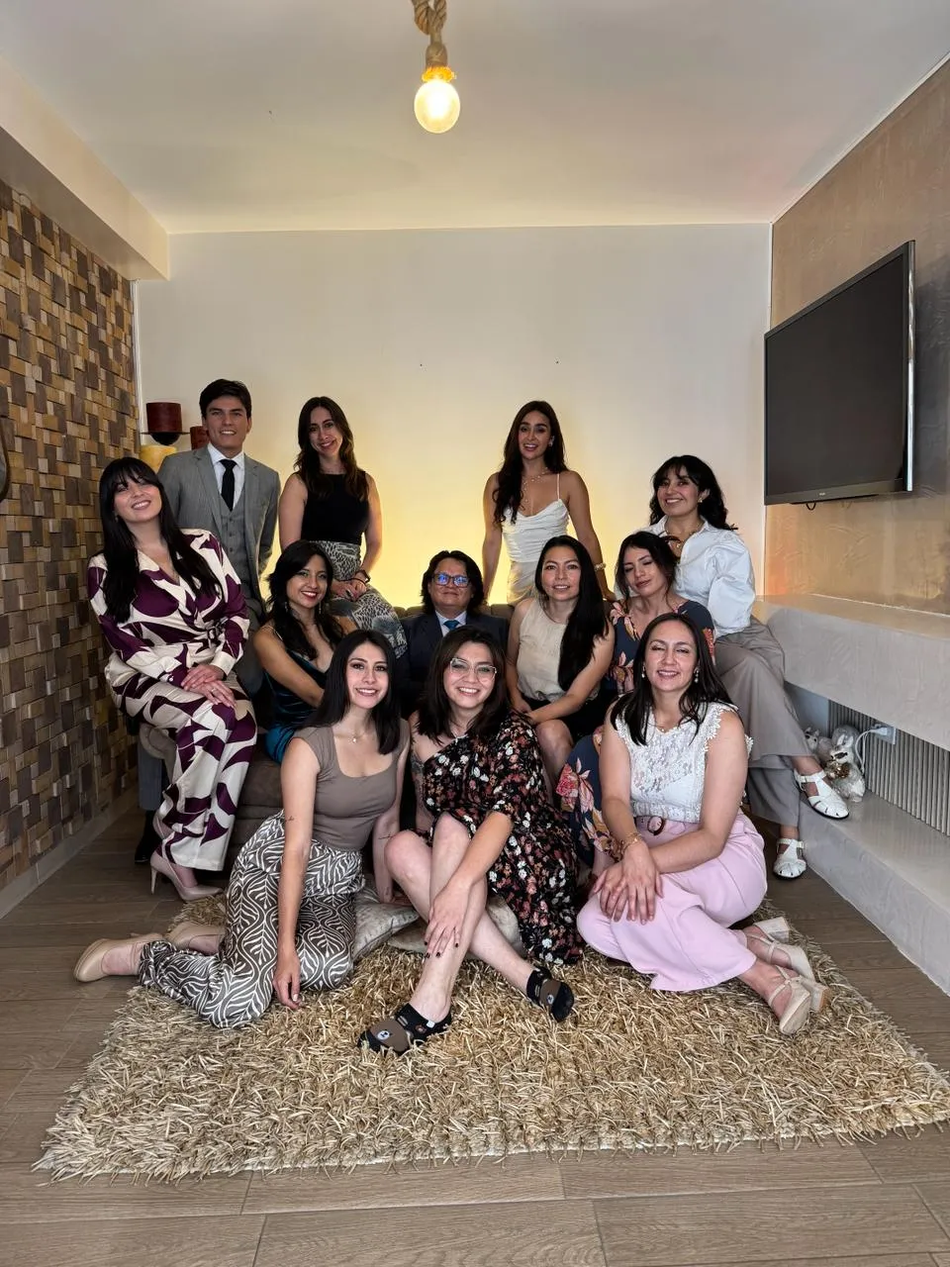
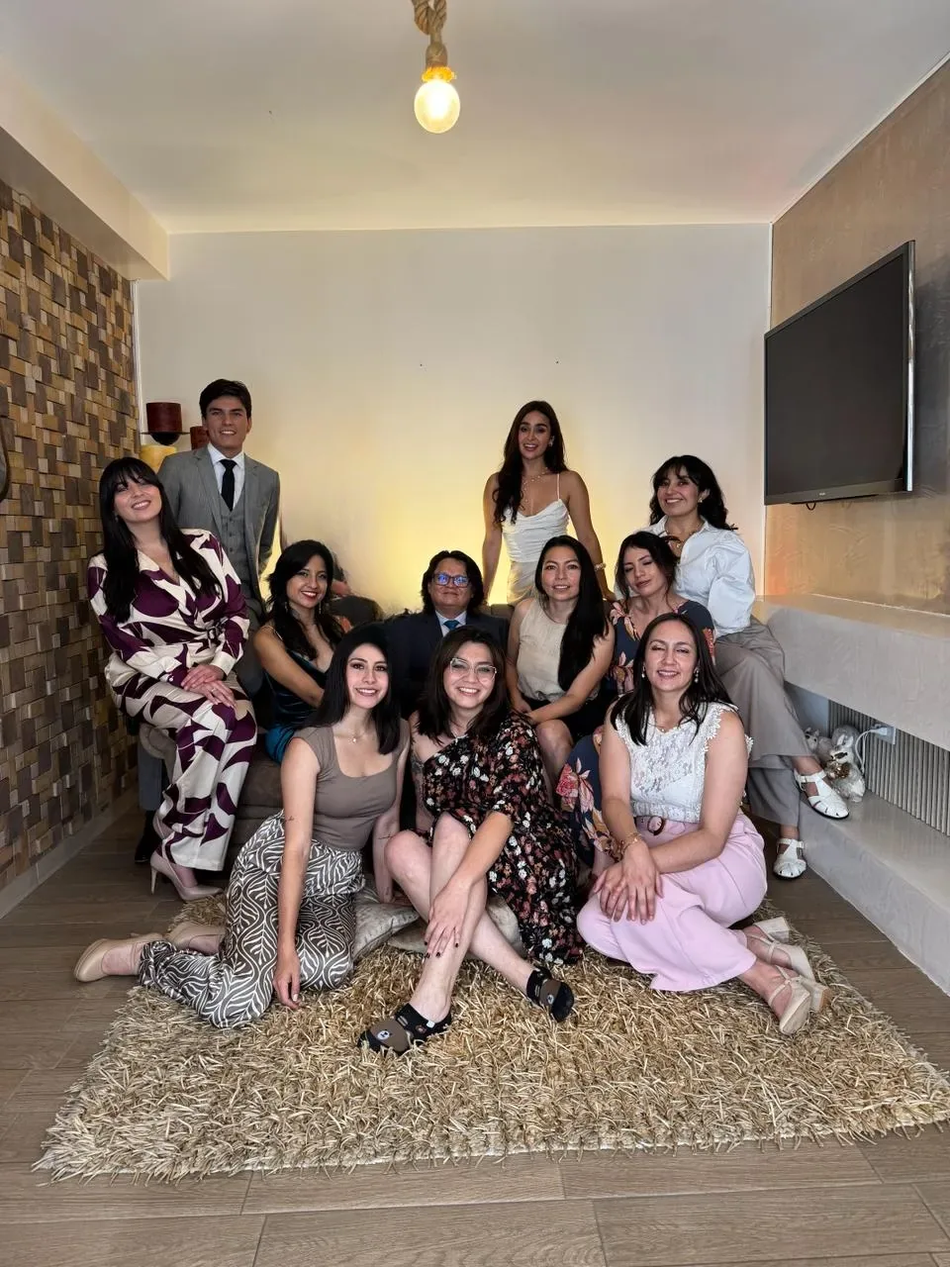
Mentis: retirar a ex integrante de las fotos de grupo y borrar archivos retirados en el servidor

Changed region(s): [[0.2812, 0.3125, 0.4375, 0.5312]]

diff --git a/mentis/diseno-web-octubre-2026/servicio-psicologia-infantil.html b/mentis/diseno-web-octubre-2026/servicio-psicologia-infantil.html
@@ -13,7 +13,7 @@
 <link rel="preconnect" href="https://fonts.googleapis.com">
 <link rel="preconnect" href="https://fonts.gstatic.com" crossorigin>
 <link href="https://fonts.googleapis.com/css2?family=Fraunces:ital,opsz,wght@0,9..144,300..500;1,9..144,300..400&family=Outfit:wght@300..600&display=swap" rel="stylesheet">
-<link rel="stylesheet" href="assets/styles.css?v=1795144038">
+<link rel="stylesheet" href="assets/styles.css?v=1795144927">
 <script type="application/ld+json">[{"@context": "https://schema.org", "@type": "Service", "name": "Psicología infantil y neuropsicología", "serviceType": "Psicología infantil y neuropsicología", "provider": {"@type": "MedicalOrganization", "name": "Mentis Psicología"}, "areaServed": ["Quito", "Ibarra", "Ecuador"], "description": "Evaluación, diagnóstico e intervención en niños, niñas y adolescentes, con un enfoque cercano, respetuoso y basado en la evidencia."}, {"@context": "https://schema.org", "@type": "FAQPage", "mainEntity": [{"@type": "Question", "name": "¿Cómo sé si necesito este servicio?", "acceptedAnswer": {"@type": "Answer", "text": "Si algo te está costando más de lo habitual o se repite en el tiempo, vale la pena conversarlo. En la primera sesión te ayudamos a entender qué está pasando y si este es el acompañamiento adecuado."}}, {"@type": "Question", "name": "¿Las sesiones pueden ser en línea?", "acceptedAnswer": {"@type": "Answer", "text": "Sí. Atendemos presencialmente en Quito e Ibarra y en línea para todo Ecuador y el exterior, con la misma calidad y confidencialidad."}}, {"@type": "Question", "name": "¿Cuánto dura una sesión?", "acceptedAnswer": {"@type": "Answer", "text": "La primera sesión es una conversación de unos 50 minutos, a tu ritmo, para conocer qué te trae y cómo funciona el espacio."}}, {"@type": "Question", "name": "¿Cuántas sesiones voy a necesitar?", "acceptedAnswer": {"@type": "Answer", "text": "Depende de cada proceso. Con lo que conversamos definimos juntos objetivos claros y la frecuencia de las sesiones, y revisamos tu progreso para ajustar el plan cuando haga falta."}}, {"@type": "Question", "name": "¿Cómo agendo mi primera cita?", "acceptedAnswer": {"@type": "Answer", "text": "Escríbenos por WhatsApp a la sede que prefieras. Te orientamos sobre la profesional indicada y los horarios disponibles."}}]}]</script>
 </head>
 <body>
@@ -141,6 +141,6 @@
   <p>Usamos cookies necesarias para que la web funcione y, si lo aceptas, cookies de medición para mejorarla. Más información en nuestra <a href="privacidad.html" class="link">política de privacidad</a>.</p>
   <div class="cookies-acts"><button class="btn btn-line" data-cookies="min">Solo necesarias</button><button class="btn" data-cookies="all">Aceptar</button></div>
 </div>
-<script src="assets/main.js?v=1795144038" defer></script>
+<script src="assets/main.js?v=1795144927" defer></script>
 </body>
 </html>

diff --git a/mentis/diseno-web-octubre-2026/servicio-terapia-individual.html b/mentis/diseno-web-octubre-2026/servicio-terapia-individual.html
@@ -13,7 +13,7 @@
 <link rel="preconnect" href="https://fonts.googleapis.com">
 <link rel="preconnect" href="https://fonts.gstatic.com" crossorigin>
 <link href="https://fonts.googleapis.com/css2?family=Fraunces:ital,opsz,wght@0,9..144,300..500;1,9..144,300..400&family=Outfit:wght@300..600&display=swap" rel="stylesheet">
-<link rel="stylesheet" href="assets/styles.css?v=1795144038">
+<link rel="stylesheet" href="assets/styles.css?v=1795144927">
 <script type="application/ld+json">[{"@context": "https://schema.org", "@type": "Service", "name": "Terapia individual", "serviceType": "Terapia individual", "provider": {"@type": "MedicalOrganization", "name": "Mentis Psicología"}, "areaServed": ["Quito", "Ibarra", "Ecuador"], "description": "Un espacio propio para entender lo que te pasa, ordenar lo que sientes y tomar decisiones más coherentes contigo. Presencial en Quito e Ibarra, o en línea."}, {"@context": "https://schema.org", "@type": "FAQPage", "mainEntity": [{"@type": "Question", "name": "¿Cómo sé si necesito este servicio?", "acceptedAnswer": {"@type": "Answer", "text": "Si algo te está costando más de lo habitual o se repite en el tiempo, vale la pena conversarlo. En la primera sesión te ayudamos a entender qué está pasando y si este es el acompañamiento adecuado."}}, {"@type": "Question", "name": "¿Las sesiones pueden ser en línea?", "acceptedAnswer": {"@type": "Answer", "text": "Sí. Atendemos presencialmente en Quito e Ibarra y en línea para todo Ecuador y el exterior, con la misma calidad y confidencialidad."}}, {"@type": "Question", "name": "¿Cuánto dura una sesión?", "acceptedAnswer": {"@type": "Answer", "text": "La primera sesión es una conversación de unos 50 minutos, a tu ritmo, para conocer qué te trae y cómo funciona el espacio."}}, {"@type": "Question", "name": "¿Cuántas sesiones voy a necesitar?", "acceptedAnswer": {"@type": "Answer", "text": "Depende de cada proceso. Con lo que conversamos definimos juntos objetivos claros y la frecuencia de las sesiones, y revisamos tu progreso para ajustar el plan cuando haga falta."}}, {"@type": "Question", "name": "¿Cómo agendo mi primera cita?", "acceptedAnswer": {"@type": "Answer", "text": "Escríbenos por WhatsApp a la sede que prefieras. Te orientamos sobre la profesional indicada y los horarios disponibles."}}]}]</script>
 </head>
 <body>
@@ -141,6 +141,6 @@
   <p>Usamos cookies necesarias para que la web funcione y, si lo aceptas, cookies de medición para mejorarla. Más información en nuestra <a href="privacidad.html" class="link">política de privacidad</a>.</p>
   <div class="cookies-acts"><button class="btn btn-line" data-cookies="min">Solo necesarias</button><button class="btn" data-cookies="all">Aceptar</button></div>
 </div>
-<script src="assets/main.js?v=1795144038" defer></script>
+<script src="assets/main.js?v=1795144927" defer></script>
 </body>
 </html>

diff --git a/mentis/diseno-web-octubre-2026/servicio-evaluacion-y-orientacion-vocacional.html b/mentis/diseno-web-octubre-2026/servicio-evaluacion-y-orientacion-vocacional.html
@@ -13,7 +13,7 @@
 <link rel="preconnect" href="https://fonts.googleapis.com">
 <link rel="preconnect" href="https://fonts.gstatic.com" crossorigin>
 <link href="https://fonts.googleapis.com/css2?family=Fraunces:ital,opsz,wght@0,9..144,300..500;1,9..144,300..400&family=Outfit:wght@300..600&display=swap" rel="stylesheet">
-<link rel="stylesheet" href="assets/styles.css?v=1795144038">
+<link rel="stylesheet" href="assets/styles.css?v=1795144927">
 <script type="application/ld+json">[{"@context": "https://schema.org", "@type": "Service", "name": "Evaluación y orientación vocacional", "serviceType": "Evaluación y orientación vocacional", "provider": {"@type": "MedicalOrganization", "name": "Mentis Psicología"}, "areaServed": ["Quito", "Ibarra", "Ecuador"], "description": "Procesos de evaluación adaptados a tus necesidades personales, académicas y profesionales, con resultados claros."}, {"@context": "https://schema.org", "@type": "FAQPage", "mainEntity": [{"@type": "Question", "name": "¿Cómo sé si necesito este servicio?", "acceptedAnswer": {"@type": "Answer", "text": "Si algo te está costando más de lo habitual o se repite en el tiempo, vale la pena conversarlo. En la primera sesión te ayudamos a entender qué está pasando y si este es el acompañamiento adecuado."}}, {"@type": "Question", "name": "¿Las sesiones pueden ser en línea?", "acceptedAnswer": {"@type": "Answer", "text": "Sí. Atendemos presencialmente en Quito e Ibarra y en línea para todo Ecuador y el exterior, con la misma calidad y confidencialidad."}}, {"@type": "Question", "name": "¿Cuánto dura una sesión?", "acceptedAnswer": {"@type": "Answer", "text": "La primera sesión es una conversación de unos 50 minutos, a tu ritmo, para conocer qué te trae y cómo funciona el espacio."}}, {"@type": "Question", "name": "¿Cuántas sesiones voy a necesitar?", "acceptedAnswer": {"@type": "Answer", "text": "Depende de cada proceso. Con lo que conversamos definimos juntos objetivos claros y la frecuencia de las sesiones, y revisamos tu progreso para ajustar el plan cuando haga falta."}}, {"@type": "Question", "name": "¿Cómo agendo mi primera cita?", "acceptedAnswer": {"@type": "Answer", "text": "Escríbenos por WhatsApp a la sede que prefieras. Te orientamos sobre la profesional indicada y los horarios disponibles."}}]}]</script>
 </head>
 <body>
@@ -141,6 +141,6 @@
   <p>Usamos cookies necesarias para que la web funcione y, si lo aceptas, cookies de medición para mejorarla. Más información en nuestra <a href="privacidad.html" class="link">política de privacidad</a>.</p>
   <div class="cookies-acts"><button class="btn btn-line" data-cookies="min">Solo necesarias</button><button class="btn" data-cookies="all">Aceptar</button></div>
 </div>
-<script src="assets/main.js?v=1795144038" defer></script>
+<script src="assets/main.js?v=1795144927" defer></script>
 </body>
 </html>

diff --git a/mentis/diseno-web-octubre-2026/servicio-terapia-de-pareja.html b/mentis/diseno-web-octubre-2026/servicio-terapia-de-pareja.html
@@ -13,7 +13,7 @@
 <link rel="preconnect" href="https://fonts.googleapis.com">
 <link rel="preconnect" href="https://fonts.gstatic.com" crossorigin>
 <link href="https://fonts.googleapis.com/css2?family=Fraunces:ital,opsz,wght@0,9..144,300..500;1,9..144,300..400&family=Outfit:wght@300..600&display=swap" rel="stylesheet">
-<link rel="stylesheet" href="assets/styles.css?v=1795144038">
+<link rel="stylesheet" href="assets/styles.css?v=1795144927">
 <script type="application/ld+json">[{"@context": "https://schema.org", "@type": "Service", "name": "Terapia de pareja", "serviceType": "Terapia de pareja", "provider": {"@type": "MedicalOrganization", "name": "Mentis Psicología"}, "areaServed": ["Quito", "Ibarra", "Ecuador"], "description": "Herramientas para mejorar la comunicación, salir de los conflictos que se repiten y fortalecer el vínculo desde el respeto mutuo."}, {"@context": "https://schema.org", "@type": "FAQPage", "mainEntity": [{"@type": "Question", "name": "¿Cómo sé si necesito este servicio?", "acceptedAnswer": {"@type": "Answer", "text": "Si algo te está costando más de lo habitual o se repite en el tiempo, vale la pena conversarlo. En la primera sesión te ayudamos a entender qué está pasando y si este es el acompañamiento adecuado."}}, {"@type": "Question", "name": "¿Las sesiones pueden ser en línea?", "acceptedAnswer": {"@type": "Answer", "text": "Sí. Atendemos presencialmente en Quito e Ibarra y en línea para todo Ecuador y el exterior, con la misma calidad y confidencialidad."}}, {"@type": "Question", "name": "¿Cuánto dura una sesión?", "acceptedAnswer": {"@type": "Answer", "text": "La primera sesión es una conversación de unos 50 minutos, a tu ritmo, para conocer qué te trae y cómo funciona el espacio."}}, {"@type": "Question", "name": "¿Cuántas sesiones voy a necesitar?", "acceptedAnswer": {"@type": "Answer", "text": "Depende de cada proceso. Con lo que conversamos definimos juntos objetivos claros y la frecuencia de las sesiones, y revisamos tu progreso para ajustar el plan cuando haga falta."}}, {"@type": "Question", "name": "¿Cómo agendo mi primera cita?", "acceptedAnswer": {"@type": "Answer", "text": "Escríbenos por WhatsApp a la sede que prefieras. Te orientamos sobre la profesional indicada y los horarios disponibles."}}]}]</script>
 </head>
 <body>
@@ -141,6 +141,6 @@
   <p>Usamos cookies necesarias para que la web funcione y, si lo aceptas, cookies de medición para mejorarla. Más información en nuestra <a href="privacidad.html" class="link">política de privacidad</a>.</p>
   <div class="cookies-acts"><button class="btn btn-line" data-cookies="min">Solo necesarias</button><button class="btn" data-cookies="all">Aceptar</button></div>
 </div>
-<script src="assets/main.js?v=1795144038" defer></script>
+<script src="assets/main.js?v=1795144927" defer></script>
 </body>
 </html>

diff --git a/mentis/diseno-web-octubre-2026/servicio-supervision-clinica.html b/mentis/diseno-web-octubre-2026/servicio-supervision-clinica.html
@@ -13,7 +13,7 @@
 <link rel="preconnect" href="https://fonts.googleapis.com">
 <link rel="preconnect" href="https://fonts.gstatic.com" crossorigin>
 <link href="https://fonts.googleapis.com/css2?family=Fraunces:ital,opsz,wght@0,9..144,300..500;1,9..144,300..400&family=Outfit:wght@300..600&display=swap" rel="stylesheet">
-<link rel="stylesheet" href="assets/styles.css?v=1795144038">
+<link rel="stylesheet" href="assets/styles.css?v=1795144927">
 <script type="application/ld+json">[{"@context": "https://schema.org", "@type": "Service", "name": "Supervisión clínica", "serviceType": "Supervisión clínica", "provider": {"@type": "MedicalOrganization", "name": "Mentis Psicología"}, "areaServed": ["Quito", "Ibarra", "Ecuador"], "description": "Supervisión de casos con una mirada ética, reflexiva y basada en evidencia científica, en Ecuador y en línea."}, {"@context": "https://schema.org", "@type": "FAQPage", "mainEntity": [{"@type": "Question", "name": "¿Cómo sé si necesito este servicio?", "acceptedAnswer": {"@type": "Answer", "text": "Si algo te está costando más de lo habitual o se repite en el tiempo, vale la pena conversarlo. En la primera sesión te ayudamos a entender qué está pasando y si este es el acompañamiento adecuado."}}, {"@type": "Question", "name": "¿Las sesiones pueden ser en línea?", "acceptedAnswer": {"@type": "Answer", "text": "Sí. Atendemos presencialmente en Quito e Ibarra y en línea para todo Ecuador y el exterior, con la misma calidad y confidencialidad."}}, {"@type": "Question", "name": "¿Cuánto dura una sesión?", "acceptedAnswer": {"@type": "Answer", "text": "La primera sesión es una conversación de unos 50 minutos, a tu ritmo, para conocer qué te trae y cómo funciona el espacio."}}, {"@type": "Question", "name": "¿Cuántas sesiones voy a necesitar?", "acceptedAnswer": {"@type": "Answer", "text": "Depende de cada proceso. Con lo que conversamos definimos juntos objetivos claros y la frecuencia de las sesiones, y revisamos tu progreso para ajustar el plan cuando haga falta."}}, {"@type": "Question", "name": "¿Cómo agendo mi primera cita?", "acceptedAnswer": {"@type": "Answer", "text": "Escríbenos por WhatsApp a la sede que prefieras. Te orientamos sobre la profesional indicada y los horarios disponibles."}}]}]</script>
 </head>
 <body>
@@ -141,6 +141,6 @@
   <p>Usamos cookies necesarias para que la web funcione y, si lo aceptas, cookies de medición para mejorarla. Más información en nuestra <a href="privacidad.html" class="link">política de privacidad</a>.</p>
   <div class="cookies-acts"><button class="btn btn-line" data-cookies="min">Solo necesarias</button><button class="btn" data-cookies="all">Aceptar</button></div>
 </div>
-<script src="assets/main.js?v=1795144038" defer></script>
+<script src="assets/main.js?v=1795144927" defer></script>
 </body>
 </html>

diff --git a/mentis/diseno-web-octubre-2026/servicio-psicopedagogia.html b/mentis/diseno-web-octubre-2026/servicio-psicopedagogia.html
@@ -13,7 +13,7 @@
 <link rel="preconnect" href="https://fonts.googleapis.com">
 <link rel="preconnect" href="https://fonts.gstatic.com" crossorigin>
 <link href="https://fonts.googleapis.com/css2?family=Fraunces:ital,opsz,wght@0,9..144,300..500;1,9..144,300..400&family=Outfit:wght@300..600&display=swap" rel="stylesheet">
-<link rel="stylesheet" href="assets/styles.css?v=1795144038">
+<link rel="stylesheet" href="assets/styles.css?v=1795144927">
 <script type="application/ld+json">[{"@context": "https://schema.org", "@type": "Service", "name": "Psicopedagogía", "serviceType": "Psicopedagogía", "provider": {"@type": "MedicalOrganization", "name": "Mentis Psicología"}, "areaServed": ["Quito", "Ibarra", "Ecuador"], "description": "Evaluación, orientación e intervención psicopedagógica para niños y adolescentes, presencial o en línea."}, {"@context": "https://schema.org", "@type": "FAQPage", "mainEntity": [{"@type": "Question", "name": "¿Cómo sé si necesito este servicio?", "acceptedAnswer": {"@type": "Answer", "text": "Si algo te está costando más de lo habitual o se repite en el tiempo, vale la pena conversarlo. En la primera sesión te ayudamos a entender qué está pasando y si este es el acompañamiento adecuado."}}, {"@type": "Question", "name": "¿Las sesiones pueden ser en línea?", "acceptedAnswer": {"@type": "Answer", "text": "Sí. Atendemos presencialmente en Quito e Ibarra y en línea para todo Ecuador y el exterior, con la misma calidad y confidencialidad."}}, {"@type": "Question", "name": "¿Cuánto dura una sesión?", "acceptedAnswer": {"@type": "Answer", "text": "La primera sesión es una conversación de unos 50 minutos, a tu ritmo, para conocer qué te trae y cómo funciona el espacio."}}, {"@type": "Question", "name": "¿Cuántas sesiones voy a necesitar?", "acceptedAnswer": {"@type": "Answer", "text": "Depende de cada proceso. Con lo que conversamos definimos juntos objetivos claros y la frecuencia de las sesiones, y revisamos tu progreso para ajustar el plan cuando haga falta."}}, {"@type": "Question", "name": "¿Cómo agendo mi primera cita?", "acceptedAnswer": {"@type": "Answer", "text": "Escríbenos por WhatsApp a la sede que prefieras. Te orientamos sobre la profesional indicada y los horarios disponibles."}}]}]</script>
 </head>
 <body>
@@ -141,6 +141,6 @@
   <p>Usamos cookies necesarias para que la web funcione y, si lo aceptas, cookies de medición para mejorarla. Más información en nuestra <a href="privacidad.html" class="link">política de privacidad</a>.</p>
   <div class="cookies-acts"><button class="btn btn-line" data-cookies="min">Solo necesarias</button><button class="btn" data-cookies="all">Aceptar</button></div>
 </div>
-<script src="assets/main.js?v=1795144038" defer></script>
+<script src="assets/main.js?v=1795144927" defer></script>
 </body>
 </html>

diff --git a/mentis/diseno-web-octubre-2026/index.html b/mentis/diseno-web-octubre-2026/index.html
@@ -13,7 +13,7 @@
 <link rel="preconnect" href="https://fonts.googleapis.com">
 <link rel="preconnect" href="https://fonts.gstatic.com" crossorigin>
 <link href="https://fonts.googleapis.com/css2?family=Fraunces:ital,opsz,wght@0,9..144,300..500;1,9..144,300..400&family=Outfit:wght@300..600&display=swap" rel="stylesheet">
-<link rel="stylesheet" href="assets/styles.css?v=1795144038">
+<link rel="stylesheet" href="assets/styles.css?v=1795144927">
 <script type="application/ld+json">{"@context": "https://schema.org", "@type": "MedicalOrganization", "name": "Mentis Psicología", "url": "https://www.mentispsicologiaecuador.com", "description": "Red de servicios psicológicos con enfoque cognitivo constructivista en Quito, Ibarra y en línea.", "areaServed": ["Quito", "Ibarra", "Ecuador"], "sameAs": ["https://www.instagram.com/mentispsicologiaecuador/", "https://www.tiktok.com/@mentis_psicologia", "https://www.facebook.com/mentis.psicologiauio", "https://www.facebook.com/mentis.psicologia.ibarra"], "department": [{"@type": "MedicalClinic", "name": "Mentis Psicología Quito", "address": {"@type": "PostalAddress", "streetAddress": "El Porvenir y El Telégrafo", "addressLocality": "Quito", "postalCode": "170135", "addressCountry": "EC"}}, {"@type": "MedicalClinic", "name": "Mentis Psicología Ibarra", "address": {"@type": "PostalAddress", "streetAddress": "Luis Cabezas Borja 1-35", "addressLocality": "Ibarra", "postalCode": "100102", "addressCountry": "EC"}}]}</script>
 </head>
 <body>
@@ -138,7 +138,7 @@
 <section>
   <div class="wrap two-col" style="align-items:center">
     <div class="collage">
-      <div class="reveal-img tall"><img src="img/equipo-arco.webp" alt="Equipo de Mentis Psicología" loading="lazy"></div>
+      <div class="reveal-img tall"><img src="img/equipo-sala.webp" alt="Equipo de Mentis Psicología" loading="lazy"></div>
       <div class="reveal-img short"><img src="img/equipo-sillones.webp" alt="Psicólogos de Mentis en el consultorio" loading="lazy"></div>
     </div>
     <div>
@@ -242,6 +242,6 @@
   <p>Usamos cookies necesarias para que la web funcione y, si lo aceptas, cookies de medición para mejorarla. Más información en nuestra <a href="privacidad.html" class="link">política de privacidad</a>.</p>
   <div class="cookies-acts"><button class="btn btn-line" data-cookies="min">Solo necesarias</button><button class="btn" data-cookies="all">Aceptar</button></div>
 </div>
-<script src="assets/main.js?v=1795144038" defer></script>
+<script src="assets/main.js?v=1795144927" defer></script>
 </body>
 </html>

diff --git a/mentis/diseno-web-octubre-2026/servicios.html b/mentis/diseno-web-octubre-2026/servicios.html
@@ -13,7 +13,7 @@
 <link rel="preconnect" href="https://fonts.googleapis.com">
 <link rel="preconnect" href="https://fonts.gstatic.com" crossorigin>
 <link href="https://fonts.googleapis.com/css2?family=Fraunces:ital,opsz,wght@0,9..144,300..500;1,9..144,300..400&family=Outfit:wght@300..600&display=swap" rel="stylesheet">
-<link rel="stylesheet" href="assets/styles.css?v=1795144038">
+<link rel="stylesheet" href="assets/styles.css?v=1795144927">
 <script type="application/ld+json">{"@context": "https://schema.org", "@type": "ItemList", "itemListElement": [{"@type": "ListItem", "position": 1, "name": "Terapia individual", "url": "https://www.mentispsicologiaecuador.com/servicios/terapia-individual/"}, {"@type": "ListItem", "position": 2, "name": "Terapia de pareja", "url": "https://www.mentispsicologiaecuador.com/servicios/terapia-de-pareja/"}, {"@type": "ListItem", "position": 3, "name": "Psicología infantil y neuropsicología", "url": "https://www.mentispsicologiaecuador.com/servicios/psicologia-infantil/"}, {"@type": "ListItem", "position": 4, "name": "Psicopedagogía", "url": "https://www.mentispsicologiaecuador.com/servicios/psicopedagogia/"}, {"@type": "ListItem", "position": 5, "name": "Evaluación y orientación vocacional", "url": "https://www.mentispsicologiaecuador.com/servicios/evaluacion-y-orientacion-vocacional/"}, {"@type": "ListItem", "position": 6, "name": "Supervisión clínica", "url": "https://www.mentispsicologiaecuador.com/servicios/supervision-clinica/"}]}</script>
 </head>
 <body>
@@ -126,6 +126,6 @@
   <p>Usamos cookies necesarias para que la web funcione y, si lo aceptas, cookies de medición para mejorarla. Más información en nuestra <a href="privacidad.html" class="link">política de privacidad</a>.</p>
   <div class="cookies-acts"><button class="btn btn-line" data-cookies="min">Solo necesarias</button><button class="btn" data-cookies="all">Aceptar</button></div>
 </div>
-<script src="assets/main.js?v=1795144038" defer></script>
+<script src="assets/main.js?v=1795144927" defer></script>
 </body>
 </html>

diff --git a/mentis/diseno-web-octubre-2026/nosotros.html b/mentis/diseno-web-octubre-2026/nosotros.html
@@ -13,7 +13,7 @@
 <link rel="preconnect" href="https://fonts.googleapis.com">
 <link rel="preconnect" href="https://fonts.gstatic.com" crossorigin>
 <link href="https://fonts.googleapis.com/css2?family=Fraunces:ital,opsz,wght@0,9..144,300..500;1,9..144,300..400&family=Outfit:wght@300..600&display=swap" rel="stylesheet">
-<link rel="stylesheet" href="assets/styles.css?v=1795144038">
+<link rel="stylesheet" href="assets/styles.css?v=1795144927">
 
 </head>
 <body>
@@ -66,7 +66,7 @@
       <h1 class="split">Una psicología desde la <span class="ring"><em>identidad</em><svg viewBox="0 0 300 24" preserveAspectRatio="none" aria-hidden="true"><path d="M4 15C46 8 118 5 184 5.5c42 .3 82 2 110 4.6 3 .3 4 3.4 1.4 4.6-2 .9-6 1.3-12 1.5C214 17 150 16.5 92 18.6 58 19.8 30 21.6 10 22.6 4 23 1 21.4 1.6 18.6 2 17 2.8 15.7 4 15z"/><path class="b2" d="M24 21.4c48-2.6 120-4.4 190-4.6 26 0 52 .4 70 1.4" fill="none"/></svg></span></h1>
       <p class="lead fade">Mentis Psicología es una red de servicios psicológicos con atención en Ecuador y a nivel internacional, orientada al trabajo identitario y a la actualización profesional continua.</p>
     </div>
-    <div class="reveal-img page-cover"><img data-parallax=".05" src="img/equipo-arco.webp" alt="Equipo de Mentis Psicología" style="object-position:50% 35%"></div>
+    <div class="reveal-img page-cover"><img data-parallax=".05" src="img/equipo-sala.webp" alt="Equipo de Mentis Psicología" style="object-position:50% 55%"></div>
   </div>
 </section>
 
@@ -187,6 +187,6 @@
   <p>Usamos cookies necesarias para que la web funcione y, si lo aceptas, cookies de medición para mejorarla. Más información en nuestra <a href="privacidad.html" class="link">política de privacidad</a>.</p>
   <div class="cookies-acts"><button class="btn btn-line" data-cookies="min">Solo necesarias</button><button class="btn" data-cookies="all">Aceptar</button></div>
 </div>
-<script src="assets/main.js?v=1795144038" defer></script>
+<script src="assets/main.js?v=1795144927" defer></script>
 </body>
 </html>

diff --git a/mentis/diseno-web-octubre-2026/contacto.html b/mentis/diseno-web-octubre-2026/contacto.html
@@ -13,7 +13,7 @@
 <link rel="preconnect" href="https://fonts.googleapis.com">
 <link rel="preconnect" href="https://fonts.gstatic.com" crossorigin>
 <link href="https://fonts.googleapis.com/css2?family=Fraunces:ital,opsz,wght@0,9..144,300..500;1,9..144,300..400&family=Outfit:wght@300..600&display=swap" rel="stylesheet">
-<link rel="stylesheet" href="assets/styles.css?v=1795144038">
+<link rel="stylesheet" href="assets/styles.css?v=1795144927">
 <script type="application/ld+json">{"@context": "https://schema.org", "@type": "MedicalOrganization", "name": "Mentis Psicología", "url": "https://www.mentispsicologiaecuador.com", "description": "Red de servicios psicológicos con enfoque cognitivo constructivista en Quito, Ibarra y en línea.", "areaServed": ["Quito", "Ibarra", "Ecuador"], "sameAs": ["https://www.instagram.com/mentispsicologiaecuador/", "https://www.tiktok.com/@mentis_psicologia", "https://www.facebook.com/mentis.psicologiauio", "https://www.facebook.com/mentis.psicologia.ibarra"], "department": [{"@type": "MedicalClinic", "name": "Mentis Psicología Quito", "address": {"@type": "PostalAddress", "streetAddress": "El Porvenir y El Telégrafo", "addressLocality": "Quito", "postalCode": "170135", "addressCountry": "EC"}}, {"@type": "MedicalClinic", "name": "Mentis Psicología Ibarra", "address": {"@type": "PostalAddress", "streetAddress": "Luis Cabezas Borja 1-35", "addressLocality": "Ibarra", "postalCode": "100102", "addressCountry": "EC"}}]}</script>
 </head>
 <body>
@@ -147,6 +147,6 @@
   <p>Usamos cookies necesarias para que la web funcione y, si lo aceptas, cookies de medición para mejorarla. Más información en nuestra <a href="privacidad.html" class="link">política de privacidad</a>.</p>
   <div class="cookies-acts"><button class="btn btn-line" data-cookies="min">Solo necesarias</button><button class="btn" data-cookies="all">Aceptar</button></div>
 </div>
-<script src="assets/main.js?v=1795144038" defer></script>
+<script src="assets/main.js?v=1795144927" defer></script>
 </body>
 </html>

diff --git a/mentis/diseno-web-octubre-2026/equipo-jacobo-recalde.html b/mentis/diseno-web-octubre-2026/equipo-jacobo-recalde.html
@@ -13,7 +13,7 @@
 <link rel="preconnect" href="https://fonts.googleapis.com">
 <link rel="preconnect" href="https://fonts.gstatic.com" crossorigin>
 <link href="https://fonts.googleapis.com/css2?family=Fraunces:ital,opsz,wght@0,9..144,300..500;1,9..144,300..400&family=Outfit:wght@300..600&display=swap" rel="stylesheet">
-<link rel="stylesheet" href="assets/styles.css?v=1795144038">
+<link rel="stylesheet" href="assets/styles.css?v=1795144927">
 <script type="application/ld+json">{"@context": "https://schema.org", "@type": "Person", "name": "Jacobo Recalde", "jobTitle": "Psicólogo clínico y psicoterapeuta cognitivo", "worksFor": {"@type": "MedicalOrganization", "name": "Mentis Psicología"}}</script>
 </head>
 <body>
@@ -128,6 +128,6 @@
   <p>Usamos cookies necesarias para que la web funcione y, si lo aceptas, cookies de medición para mejorarla. Más información en nuestra <a href="privacidad.html" class="link">política de privacidad</a>.</p>
   <div class="cookies-acts"><button class="btn btn-line" data-cookies="min">Solo necesarias</button><button class="btn" data-cookies="all">Aceptar</button></div>
 </div>
-<script src="assets/main.js?v=1795144038" defer></script>
+<script src="assets/main.js?v=1795144927" defer></script>
 </body>
 </html>

diff --git a/mentis/diseno-web-octubre-2026/equipo-nicole-nieto.html b/mentis/diseno-web-octubre-2026/equipo-nicole-nieto.html
@@ -13,7 +13,7 @@
 <link rel="preconnect" href="https://fonts.googleapis.com">
 <link rel="preconnect" href="https://fonts.gstatic.com" crossorigin>
 <link href="https://fonts.googleapis.com/css2?family=Fraunces:ital,opsz,wght@0,9..144,300..500;1,9..144,300..400&family=Outfit:wght@300..600&display=swap" rel="stylesheet">
-<link rel="stylesheet" href="assets/styles.css?v=1795144038">
+<link rel="stylesheet" href="assets/styles.css?v=1795144927">
 <script type="application/ld+json">{"@context": "https://schema.org", "@type": "Person", "name": "Nicole Nieto Maldonado", "jobTitle": "Psicóloga · Educación especial", "worksFor": {"@type": "MedicalOrganization", "name": "Mentis Psicología"}}</script>
 </head>
 <body>
@@ -128,6 +128,6 @@
   <p>Usamos cookies necesarias para que la web funcione y, si lo aceptas, cookies de medición para mejorarla. Más información en nuestra <a href="privacidad.html" class="link">política de privacidad</a>.</p>
   <div class="cookies-acts"><button class="btn btn-line" data-cookies="min">Solo necesarias</button><button class="btn" data-cookies="all">Aceptar</button></div>
 </div>
-<script src="assets/main.js?v=1795144038" defer></script>
+<script src="assets/main.js?v=1795144927" defer></script>
 </body>
 </html>
